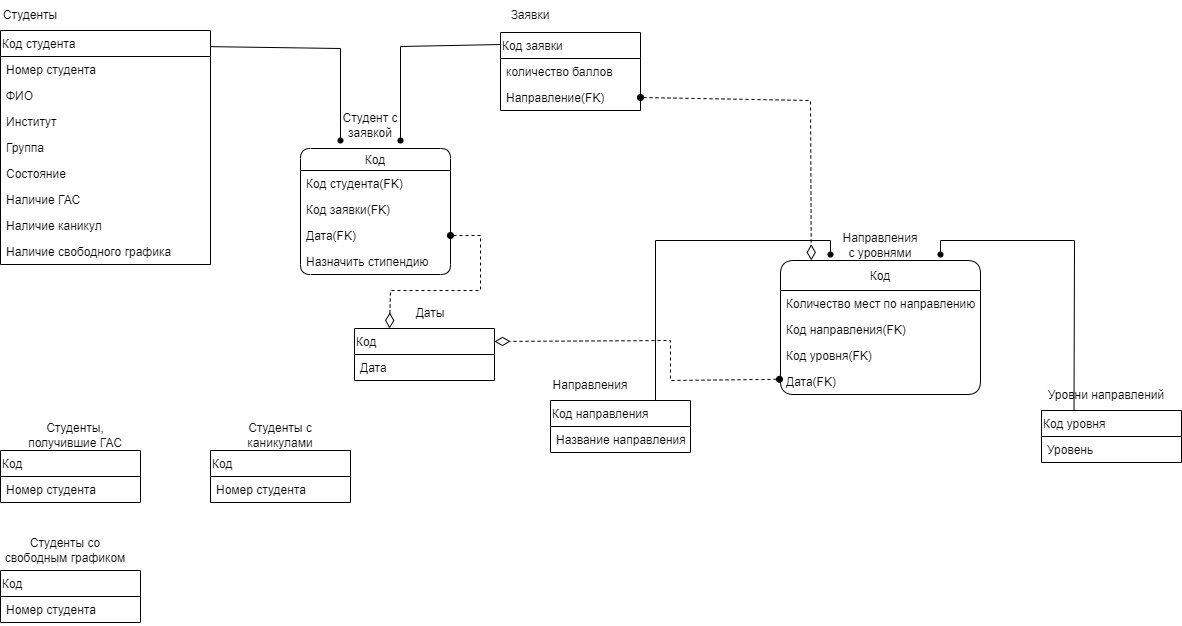
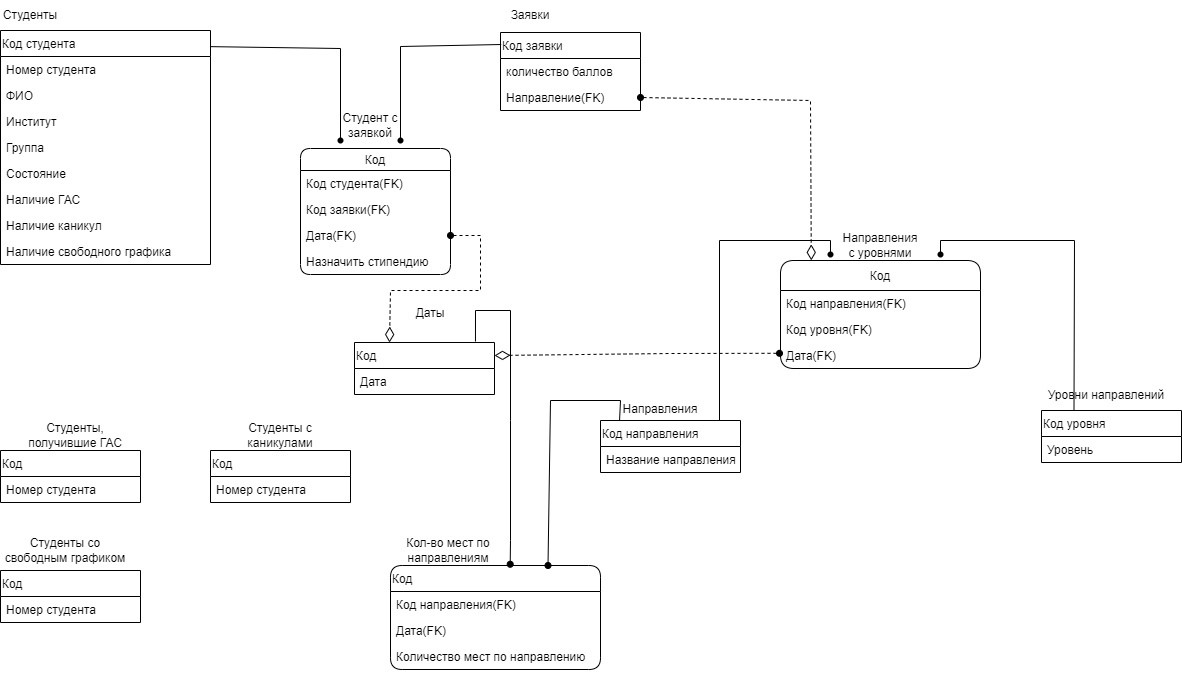
+
Перенос отчетов

diff --git a/База знаний/Система «Рейтинг студентов»/Модуль 1 Регистрация коллективов (Вовлеченность)/Модель «Как будет»/Версия 1.md b/База знаний/Система «Рейтинг студентов»/Модуль 1 Регистрация коллективов (Вовлеченность)/Модель «Как будет»/Версия 1.md
@@ -1,0 +1,86 @@
+![[32.png]]
+
+Процесс А1:
+Для того чтобы вступить в коллектив он должен быть создан поэтому сначала в блоке А1 создается структура к которой в последствии можно присоединиться.
+
+Процесс А2:
+Активные студенты, заинтересованные в социальной активности, с помощью различных групп в социальных сетях и сайта ИРНИТУ узнают о существующих сообществах. При наличии желания и проанализировав требования, необходимые для вступления в коллектив студент принимает решение о вступлении в состав коллектив после встречи с руководителем коллектива и его согласия.
+Актуальные данные о составе коллектива отправляются в модуль «Мероприятие»
+
+Процесс А3:
+В конце отчетного периода у руководителей коллектива запрашивается информация о составе коллектива. На ее основании делается отчет о состоянии коллективов.
+
+_Детализация процесса А1:_
+
+_![[33.png]]_
+
+Процесс А1.1:
+Первым шагом на пути создания коллектива является инициатива создания. В последствии при обсуждении деталей с ответственным лицом появляется четкая концепция коллектива: чем будет заниматься коллектив и на что будет направлена его деятельность, где будут происходить сборы и какие материальные средства необходимы для обеспечения деятельности коллектива, руководящие должности, формирование устава коллектива и т.д.
+Возможны случаи отклонения инициативы создания коллектива по ряду причин.
+
+Процесс А1.2:
+При согласовании концепции коллектива и при ее одобрении ответственным за направление лицом формируется проект приказа о создании коллектива и подбираются кандидатуры на роль руководителя коллектива. (Проекты на создания коллектива формируются каждый определенный период) Формально коллективы пересоздаются постоянно.
+
+Детализация процесс А1.2:
+
+![[34.png]]
+
+Процесс А1.2.1:
+На основании концепции коллектива и выдвинувшихся кандидатов на роль руководителя выбираются предпочтительные кандидатуры.
+
+Процесс А1.2.2:
+На основании отбора предпочтительных кандидатур на роль руководителя коллектива производится итоговый выбор и оформляется проект приказа о создании коллектива.
+
+Процесс A1.3:
+После завершения работы над проектом приказа о создании коллектива он утверждается и подписывается ректором.
+
+Процесс A1.4:
+На основе актуальных приказов о создании коллективов, создаётся страница в системе «Вовлеченность».
+
+![[35.png]]
+
+_Детализация процесса A1.4:_
+
+Процесс А1.4.1:
+В информационной системе создается страница коллектива. Указывается название коллектива согласно приказу.
+
+Процесс А1.4.2:
+В созданной странице коллектива ответственное лицо указывает руководителя коллектива согласно подписанному приказу.
+
+Процесс А1.4.3:
+На странице коллектива в информационной системе руководитель заполняет данные о коллективе.
+
+_Детализация процесса А2:_
+_![[36.png]]
+
+Процесс А2.1:
+При наличии заинтересованности студента в социальной активности, а также благодаря активной политике коллектива по привлечению новых лиц студент начнет поиск подходящих ему коллективов.
+
+Процесс А2.2:
+После нахождения подходящих объединений заинтересованное лицо идет на организационное собрание, проводимое руководителем коллектива. При взаимном согласии сторон студент с помощью системы «Вовлеченность» отправляет заявку на вступление в коллектив.
+
+Процесс А2.3:
+Руководитель коллектива принимает или отклоняет заявку на вступление в коллектив студента. Руководитель коллектива в любой момент времени может присвоить статус студенту, состоящему в данном коллективе.
+
+  
+
+_Детализация процесса А3:_
+
+![[37.png]]
+
+Процесс А3.1:
+На основании информации имеющейся у руководителя коллектива составляется список участников коллектива перед отчетным периодом, а также собираются данные об ушедших участниках.
+
+_Детализация процесса А3.1:_
+
+![[38.png]]
+
+Процесс А3.1.1:
+Из актуального списка участников руководитель исключает ушедших по собственному желанию, неактивных или студентов, полностью не посещающих мероприятия коллектива. Составляется предварительный список участников коллектива.
+Информация об исключенных участниках передается в блок А3.2.
+
+Процесс А3.1.2:
+На данном этапе система позволяет руководителю редактировать статусы и роли участников. Формируется список участников перед отчетным периодом.
+
+Процесс А3.2:
+На основе полученной информации ответственное лицо проводит анализ полученной информации по заданным параметрам и формирует отчет о состоянии коллектива.

diff --git a/База знаний/Система «Рейтинг студентов»/Модуль 1 Регистрация коллективов (Вовлеченность)/Список коллективов.md b/База знаний/Система «Рейтинг студентов»/Модуль 1 Регистрация коллективов (Вовлеченность)/Список коллективов.md
@@ -1,0 +1,89 @@
+| Направление | Коллектив |
+|-----------------|-|
+|КТД|Эстрадно-джазовый ансамбль «ДЖЭМ»|
+|КТД|Рок-клуб «ЗаРок»|
+|КТД|Народный коллектив вокальный ансамбль «Пой, Friend!»|
+|КТД|Международный Студенческий Клуб|
+|КТД|Танцевально-спортивный клуб «Академик». Народный коллектив Ансамбль бального танца «Академик»|
+|КТД|Студия степа «Чечётка»|
+|КТД|Народный коллектив ансамбль русской песни "Калина"|
+|КТД|Народный коллектив Школа современной хореографии ШАГИ|
+|КТД|Народный коллектив Студия этнической перкуссии «Этнобит»|
+|КТД|Студенческий педагогический отряд «Флибустьеры»|
+|КТД|Студия художественного слова|
+|КТД|Рэп-клуб|
+|КТД|Народный коллектив Студия эстрадного вокала. Эстрадная группа|
+|КТД|Студия пантомимы и пластической импровизации «Арт-графика»|
+|КТД|Творческое объединение «LUMOS»|
+|CД|Армрестлинг|
+|CД|Бадминтон|
+|CД|Баскетбол девушки|
+|CД|Баскетбол юноши|
+|CД|Бокс|
+|CД|Волейбол юноши|
+|CД|Волейбол девушки|
+|CД|Гиревой спорт|
+|CД|Дартс|
+|CД|Кикбоксинг|
+|CД|Легкая атлетика|
+|CД|Лыжные гонки|
+|CД|Мини-футбол,Футбол|
+|CД|Настольный теннис|
+|CД|Пауэрлифтинг|
+|CД|Плавание|
+|CД|Скалолазание|
+|CД|Смешанные единоборства|
+|CД|Чирлидинг|
+|CД|Спортивная борьба|
+|CД|Спортивное ориентирование|
+|CД|Хоккей с мячом|
+|CД|Шахматы|
+|НИД|Студенческое научное общество «Квантум»|
+|НИД|Научное общество «Карбон»|
+|НИД|Научно-исследовательский студенческий центр «Прикладная химия и биотехнология» (НИСЦ «ПХБ»)|
+|НИД|Студенческое инновационное бюро «Технолог»|
+|НИД|Студенческое научно-исследовательское объединение «Гидропоиск»|
+|НИД|Студенческое инновационное бюро «Авиатор»|
+|НИД|Научно-исследовательское студенческое конструкторское объединение «Транспортный менеджер»|
+|НИД|Студенческое научно-исследовательское общество "Инноватика: инвестиционный инжиниринг"|
+|НИД|Студенческое научное общество «Высокоточные горные технологии»
+|НИД|Студенческое конструкторское бюро "4 WD"|
+|НИД|Студенческое научно-исследовательское объединение «Технологии и средства безопасности Байкала»|
+|НИД|Научно-исследовательское студенческое конструкторское объединение "Машиностроение"|
+|НИД|Научно-творческое студенческое объединение «Материалы. Технологии. Дизайн»|
+|НИД|Научно-инженерный студенческий центр «Автоматика»|
+|НИД|Научно-исследовательское студенческое конструкторское объединение «Град»|
+|НИД|Научно-исследовательское студенческое объединение «Физическая  культура и здоровье»|
+|НИД|Научно-творческое объединение студентов и молодых ученых «Юридическая клиника»|
+|НИД|Научно-техническое творческое объединение студентов «Бриз»|
+|НИД|Научное творческое объединение студентов и молодых ученых «ПОИСК»|
+|НИД|Студенческий центр психологической помощи|
+|НИД|Студенческое научно-творческое общество «Кибер»|
+|НИД|Студенческое научное объединение «Алидада»|
+|НИД|Студенческое научное объединение «Прикладная геофизика»|
+|НИД|Студенческое научное объединение «Риск и безопасность»|
+|НИД|СНПЦ формирования предметно-пространственной среды и систем городской идентичности|
+|ОД|Профком студентов ИРНИТУ|
+|ОД|Военно-патриотический клуб студентов «БМ-21»|
+|ОД|Студенческий медиацентр ИРНИТУ|
+|ОД|Интеллектуальный клуб студентов «ИКС»|
+|ОД|Военно-патриотический клуб студентов «БМ-21»|
+|ОД|Студенческий Строительный Отряд «Вечный Двигатель»|
+|ОД|Студенческий Строительный Отряд «Уровень»|
+|ОД|Студенческий Строительный Отряд «Беркут»|
+|ОД|Студенческий Строительный Отряд «Вольт»|
+|ОД|Студенческий Педагогический Отряд «Импульс»|
+|ОД|Студенческий Экологический Отряд «Тайга»|
+|ОД|Профильный студенческий отряд «Кубит»|
+|ОД|Студенческий Сервисный Отряд «Эдельвейс»|
+|ОД|Студенческий Путинный Отряд «Прибой»|
+|ОД|Студенческий Отряд Проводников «Сибирский Экспресс»|
+|ОД|Студенческий Педагогический Отряд «Флибустьеры»|
+|ОД|Студенческий совет студгородка ИРНИТУ|
+|ОД|Отдел развития научно-исследовательской и предпринимательской деятельности студентов|
+|ОД|Спортивная комиссия|
+|ОД|Добровольцы ИРНИТУ|
+|ОД|Институт Наставничества|
+|ОД|Студенческий добровольный спасательный отряд «ПолиСпас»|
+|ОД|Культурно-массовая комиссия|
+|ОД|Клуб Спортивного Туризма «Кст Ирниту»|

diff --git a/База знаний/Система «Рейтинг студентов»/Модуль 5 Начисление рейтинговой стипендии/2 Проектирование/Проектирование БД.md b/База знаний/Система «Рейтинг студентов»/Модуль 5 Начисление рейтинговой стипендии/2 Проектирование/Проектирование БД.md
@@ -2,24 +2,28 @@
 
 В качестве СУБД, командой было принято решение использовать PostgreSQL. Для хранения данных о студентах и их заявок, было разработано 10 таблиц:
 
-1) Таблица Students служит для хранения данных студента, который подает заявку на рейтинг
+1) Таблица Students служит для хранения данных студента, который подает заявку на рейтинг
 
-2) Таблица Reating служит для хранения заявок студентов
+2) Таблица Reating служит для хранения заявок студентов
 
-3) Таблица StudentsReating служит для хранения студента с заявкой
+3) Таблица StudentsReating служит для хранения студента с заявкой
 
-4) Таблица DataTable служит для хранения даты рейтингового периода
+4) Таблица DataTable служит для хранения даты рейтингового периода
 
-5) Таблица ReatingCourses служит для хранения списка направлений с уравнями и количества мест по каждому направлению
+5) Таблица ReatingCourses служит для хранения списка направлений с уровнями
 
 6) Таблица Courses служит для хранения списка направлений
 
-7) Таблица CourseLevels служит для хранения уровней направлений
+7) Таблица CourseLevels служит для хранения уровней направлений
 
-8) Таблица StudentsSAD служит для хранения списка студентов, которые получают ГАС
+8) Таблица StudentsSAD служит для хранения списка студентов, которые получают ГАС
 
 9) Таблица StudentsVacation служит для хранения списка студентов, которые получили каникулы
-10) Таблица StudentsFree служит для хранения списка студентов, которые имеют свободный график
+
+10) Таблица StudentsFree служит для хранения списка студентов, которые имеют свободный график
+
+11) Таблица ReatingCount служит для хранения мест по каждому направлению в расчетный период
+
 
 ![[30.jpg]]
 Рисунок 1 – Логическая модель БД

diff --git a/База знаний/Система «Рейтинг студентов»/Модуль 3 Формирование заявки/Разработка интерфейса.md b/База знаний/Система «Рейтинг студентов»/Модуль 3 Формирование заявки/Разработка интерфейса.md
@@ -1,0 +1,44 @@
+![[Desktop - 2.png]]
+
+![[Desktop - 3.png]]
+
+![[ДОСТИЖЕНИЯ СТУДЕНТА - ВТОРОЙ ВАРИАНТ.png]]
+
+![[ДОСТИЖЕНИЯ СТУДЕНТА - ДОБАВЛЕНИЕ ДОСТИЖЕНИЯ В УЧЕБУ.png]]
+
+![[ДОСТИЖЕНИЯ СТУДЕНТА - ПЕРВЫЙ ВАРИАНТ.png]]
+
+![[ДОСТИЖЕНИЯ СТУДЕНТА - РЕЗУЛЬТАТ ДОБАВЛЕНИЯ.png]]
+
+![[ДОСТИЖЕНИЯ СТУДЕНТА - РЕЗУЛЬТАТ ДОБАВЛЕНИЯ-1.png]]
+
+![[ДОСТИЖЕНИЯ СТУДЕНТА- ВАРИАНТ ДИЗАЙНА ПРИ ДОБАВЛЕНИИ ЕЩЁ ОДНОГО ДОСТИЖЕНИЯ.png]]
+
+![[ДОСТИЖЕНИЯ СТУДЕНТА - РЕЗУЛЬТАТ ДОБАВЛЕНИЯ.png]]
+
+![[ДОСТИЖЕНИЯ СТУДЕНТА- ВАРИАНТ ДИЗАЙНА ПРИ ДОБАВЛЕНИИ ЕЩЁ ОДНОГО ДОСТИЖЕНИЯ.png]]
+
+![[ДОСТИЖЕНИЯ СТУДЕНТА- ДОБАВИТЬ ДОСТИЖЕНИЕ.png]]
+
+![[ДОСТИЖЕНИЯ СТУДЕНТА- ДОБАВЛЕННОЕ ДОСТИЖЕНИЕ БЫЛО ПРОВЕРЕНО И ДОБАВЛЕНО В ПОРТФОЛИО ПО НАПРАВЛЕНИЮ.png]]
+
+![[ДОСТИЖЕНИЯ СТУДЕНТА- ДОБАВЛЕННОЕ ДОСТИЖЕНИЕ БЫЛО ПРОВЕРЕНО И ДОБАВЛЕНО В ПОРТФОЛИО ПО НАПРАВЛЕНИЮ-1.png]]
+
+![[ДОСТИЖЕНИЯ СТУДЕНТА.png]]
+
+![[РЕЙТИНГ - СОЗДАНИЕ ЗАЯВКИ .png]]
+
+![[РЕЙТИНГ - СОЗДАНИЕ ЗАЯВКИ -1.png]]
+
+![[РЕЙТИНГ - СОЗДАНИЕ ЗАЯВКИ -2.png]]
+
+![[РЕЙТИНГ - СОЗДАНИЕ ЗАЯВКИ -3.png]]
+
+![[РЕЙТИНГ - СОЗДАНИЕ ЗАЯВКИ -4.png]]
+
+![[РЕЙТИНГ - СОЗДАНИЕ ЗАЯВКИ -5.png]]
+
+![[РЕЙТИНГ - СОЗДАНИЕ ЗАЯВКИ -6.png]]
+
+![[Старый вариант.png]]
+

diff --git a/База знаний/Система «Рейтинг студентов»/Модуль 1 Регистрация коллективов (Вовлеченность)/Встреча с руководителем культурно-творческой деятельности.md b/База знаний/Система «Рейтинг студентов»/Модуль 1 Регистрация коллективов (Вовлеченность)/Встреча с руководителем культурно-творческой деятельности.md
@@ -1,0 +1,7 @@
+Как происходит вступление в коллектив: в начале сентября каждого учебного года ЦКМиВР организует концерты презентации для студентов первого курса для продвижения культурно-массовой политики среди первокурсников. После окончания концерта все выступавшие коллективы выходят на сцену с табличками названия коллектива. Если студент заинтересовался данным коллективом он подходит к представителям коллектива и ему сообщают информацию о проведении первого занятия, на которое первокурсник может прийти и попробовать свои силы.
+
+Роли/статусы: Нет. Есть только участник и руководитель.
+
+Документация: Составляется годовой мониторинг мероприятий, в котором указывается: название мероприятия, уровень, форма, дата/период, место проведения, кол-во участников, ссылка на СМИ, ответственное лицо (ФИО, должность, телефон)
+
+Вовлеченность никак в данный момент не учитывается. Но собираются списки от руководителей коллективов перед НГ для раздачи НГ подарков.

diff --git a/База знаний/Система «Рейтинг студентов»/Модуль 5 Начисление рейтинговой стипендии/2 Проектирование/Разработка интерфейса.md b/База знаний/Система «Рейтинг студентов»/Модуль 5 Начисление рейтинговой стипендии/2 Проектирование/Разработка интерфейса.md
@@ -1,0 +1,45 @@
+![[Выбор направления (меню закрыто).png]]
+
+![[Выбор направления (меню открыто).png]]
+
+![[Выбор списка ГАС.png]]
+
+![[ДЕТАЛИ СВОДКИ.png]]
+
+![[Загрузка списка.png]]
+
+![[Загрузка списка-1.png]]
+
+![[Изменение в других списках.png]]
+
+![[ИТОГОВЫЙ СПИСОК.png]]
+
+![[Меню закрыто.png]]
+
+![[Меню открыто.png]]
+
+![[Нажатие кнопки _Выберите файл_.png]]
+
+![[Нажатие кнопки _Выберите файл_-1.png]]
+
+![[Нажатие кнопки _Выберите файл_-2.png]]
+
+![[Нажатие кнопки _Выберите файл_-3.png]]
+
+![[Нажатие кнопки _Выберите файл_-4.png]]
+
+![[Направление выбрано.png]]
+
+![[НАСТРОЙКА РЕЙТИНГА - РЕЗУЛЬТАТ РАБОТЫ.png]]
+
+![[НАСТРОЙКА РЕЙТИНГА.png]]
+
+![[Отображение данных списка.png]]
+
+![[ПОДАВШИЕ В НЕСКОЛЬКО НАПРАВЛЕНИЙ.png]]
+
+![[ПОДАВШИЕ В НЕСКОЛЬКО НАПРАВЛЕНИЙ-1.png]]
+
+![[ПОДАВШИЕ В НЕСКОЛЬКО НАПРАВЛЕНИЙ-2.png]]
+
+![[Список ГАС выбран.png]]

diff --git a/База знаний/Работа с командой/Описание выполненной работы/Апрель.md b/База знаний/Работа с командой/Описание выполненной работы/Апрель.md
@@ -1,2 +1,6 @@
-1. Была проведенна[[05.04.2022| встреча с Гурковым Евгением Олеговичем 05.04.2022]]
+1. Была проведенна встреча с Гурковым Евгением Олеговичем 05.04.2022
 	Ответственные: Вовиков Данил, Малиновцев Иван, Михейко Юлия, Кутенков Владислав, Садовникова Мария.
+2. Была проведенна  [[Встреча с руководителем культурно-творческой деятельности| встреча с руководителем культурно-творческой деятельности]]
+	Ответственная за выполнение Бондаренко Екатерина.
+3. Был составлен  [[Список коллективов| список коллективов]]
+	
